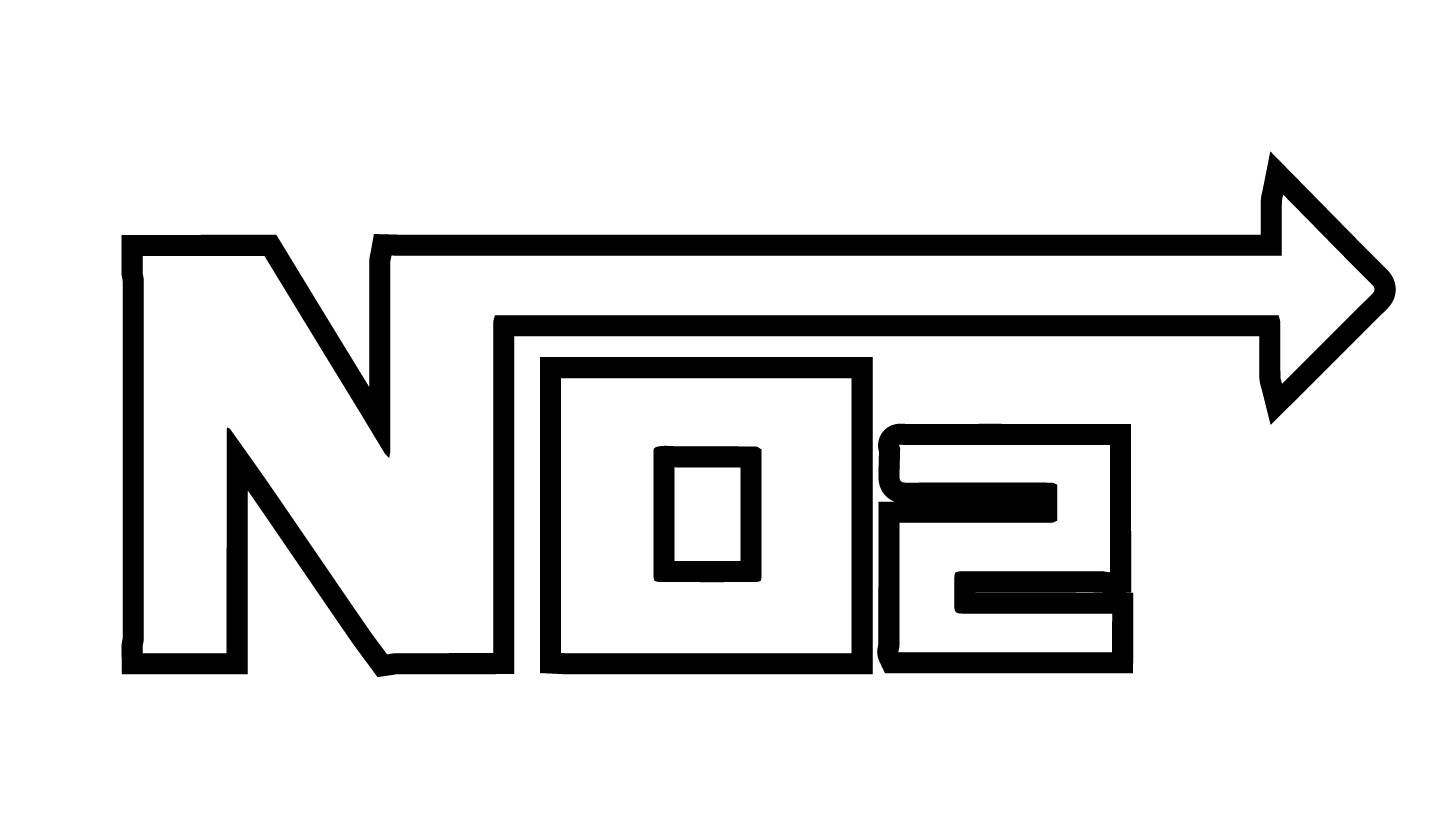
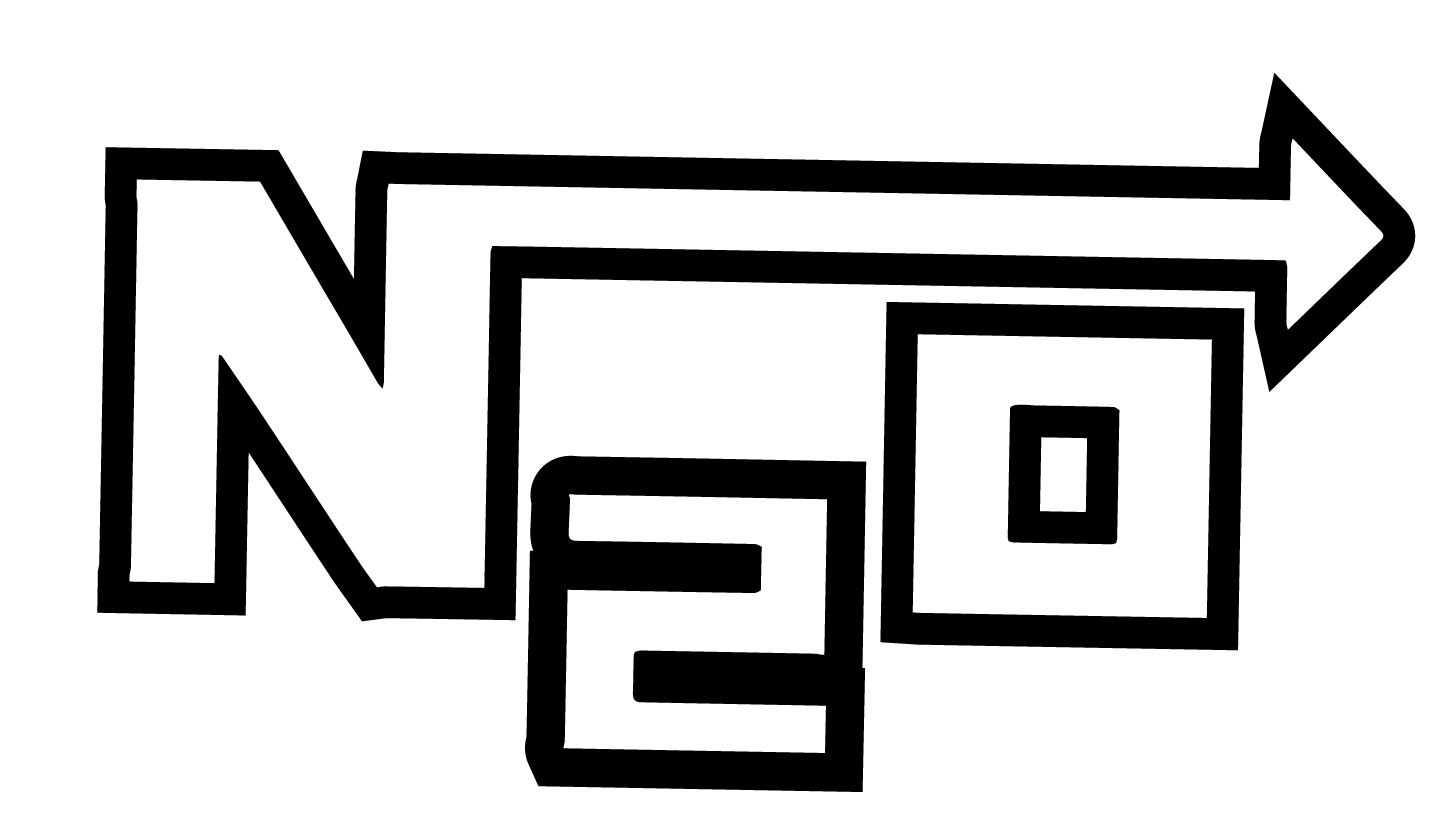
ZDGHZXDTHZXDHGZDFHGZDF

Changed region(s): [[0.0621, 0.0904, 0.9938, 0.9639]]

diff --git a/index.html b/index.html
@@ -2576,8 +2576,8 @@
 								<div class="elementor-button-wrapper">
 									<a role="button">
 										<span class="elementor-button-content-wrapper" class="butty">
-											<span class="butty" style="cursor: pointer;	font-family: 'Flight Legion', sans-serif !important; margin-top: 1.5rem;"
-												class="elementor-button-text">$NO2</span>
+											<span class="butty" style="cursor: pointer;	font-family: 'BIGCLAW', sans-serif !important; margin-top: 1.5rem;"
+												class="elementor-button-text">$N2O</span>
 										</span>
 									</a>
 								</div>
@@ -2670,7 +2670,7 @@
 												font-size: 59px
 											}
 										</style>
-										<h4 style="color: #55aeff; 	font-family: 'Flight Legion', sans-serif !important;"  class=" makuku elementor-heading-title elementor-size-default">$NO2
+										<h4 style="color: #00ff9d; 	font-family: 'BIGCLAW', sans-serif !important;"  class=" makuku elementor-heading-title elementor-size-default">$N2O
 										</h4>
 									</div>
 								</div>
@@ -2743,7 +2743,7 @@
 																class="elementor-button-link elementor-button elementor-size-sm"
 																role="button">
 																<span class="elementor-button-content-wrapper">
-																	<span class="elementor-button-text">$NO2</span>
+																	<span class="elementor-button-text" style="color: black !important;" >$N2O</span>
 																</span>
 															</a>
 														</div>
@@ -3201,9 +3201,9 @@
 									data-widget_type="text-editor.default">
 									<div class="elementor-widget-container">
 										<p style="display: none;" class="makaka">Missed Pepe the <span style="color: green; font-size: 30px;" >Frog</span> ? Don't miss Pepe the  <span style="color: rgb(159, 62, 79); font-size: 35px;" >Pig</span>!</p>
-										<p class="makaka"> In a world where innovation meets laughter, the Nitrous Oxide Token ($NO2) was born. Drawing inspiration from the fascinating chemical compound, nitrous oxide, commonly known as laughing gas, this crypto token project takes you on a ride through the exhilarating realms of technology, medicine, and a touch of humor. Let's dive into the backstory of $NO2, a token that aims to bring joy and innovation to the crypto space.
+										<p class="makaka"> In a world where innovation meets laughter, the Nitrous Oxide Token ($N2O) was born. Drawing inspiration from the fascinating chemical compound, nitrous oxide, commonly known as laughing gas, this crypto token project takes you on a ride through the exhilarating realms of technology, medicine, and a touch of humor. Let's dive into the backstory of $N2O, a token that aims to bring joy and innovation to the crypto space.
 										</p>
-										<p class="makaka">Picture $NO2 as your ticket to an exhilarating rollercoaster ride. It's not just a token; it's an experience. Our community embraces the spirit of innovation while having a good laugh along the way. Memes, jokes, and good times are at the core of our project.
+										<p class="makaka">Picture $N2O as your ticket to an exhilarating rollercoaster ride. It's not just a token; it's an experience. Our community embraces the spirit of innovation while having a good laugh along the way. Memes, jokes, and good times are at the core of our project.
 										</p>
 									
 									
